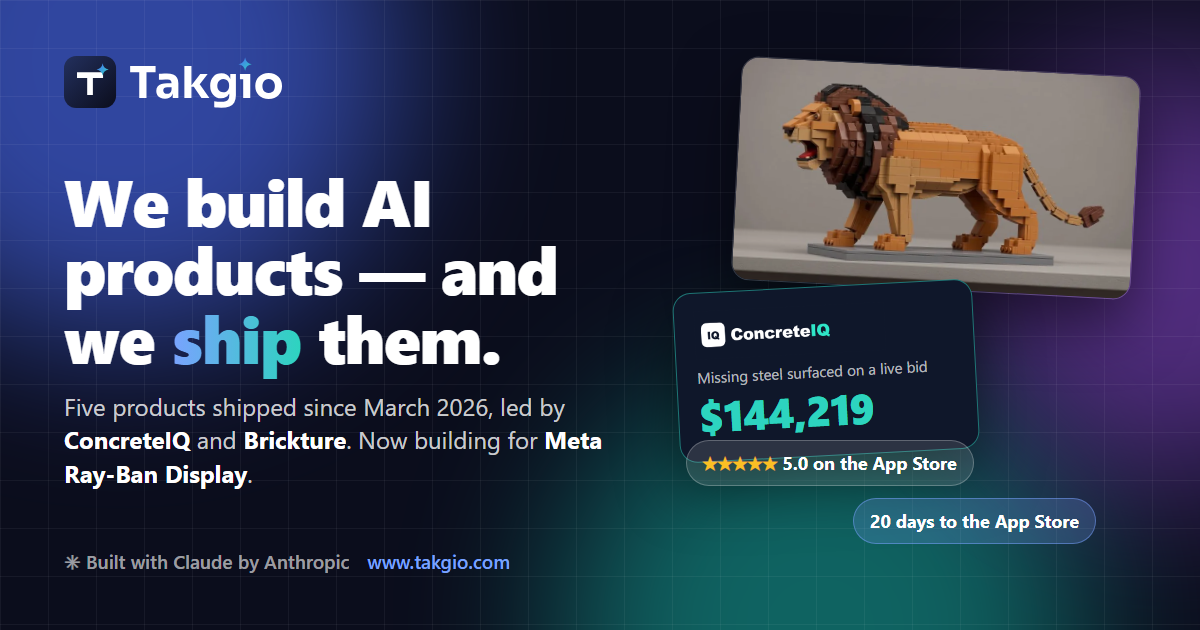
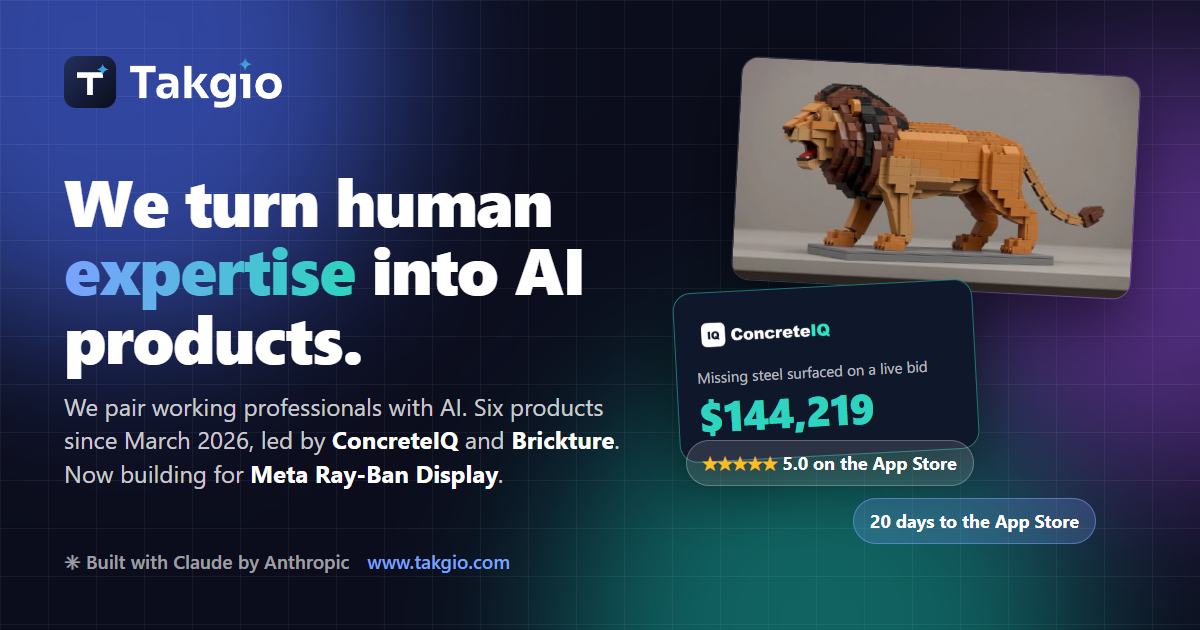
v2.46.0: Home headline "We turn human expertise into AI products."
New hero headline and supporting line, page title and description, social
titles and descriptions, and the share picture (now also says six products,
not five); share-picture alt text on all pages and a new ?v= for re-fetching.

Changed region(s): [[0.0308, 0.3921, 0.4933, 0.6032], [0.0308, 0.6333, 0.5242, 0.7841], [0.1542, 0.2714, 0.4625, 0.3619]]

diff --git a/index.html b/index.html
@@ -3,8 +3,8 @@
 <head>
   <meta charset="UTF-8">
   <meta name="viewport" content="width=device-width, initial-scale=1.0">
-  <title>Takgio — AI Product Studio for Construction, Legal, Education & Entertainment</title>
-  <meta name="description" content="Takgio is an AI product studio that ships — six products since March 2026, led by ConcreteIQ (AI bid estimating for concrete contractors) and Brickture, and now building for Meta Ray-Ban Display.">
+  <title>Takgio — We Turn Human Expertise into AI Products</title>
+  <meta name="description" content="Takgio turns human expertise into AI products: we pair working professionals with AI and build their knowledge into the product. Six products since March 2026, led by ConcreteIQ and Brickture, and now building for Meta Ray-Ban Display.">
   <link rel="icon" href="/favicon.svg" type="image/svg+xml">
   <link rel="icon" href="/images/brand/favicon-32.png" sizes="32x32" type="image/png">
   <link rel="apple-touch-icon" href="/images/brand/apple-touch-icon.png">
@@ -14,17 +14,17 @@
   <meta property="og:type" content="website">
   <meta property="og:site_name" content="Takgio">
   <meta property="og:url" content="https://www.takgio.com/">
-  <meta property="og:title" content="Takgio — AI products for Construction, Legal, Education &amp; Entertainment">
-  <meta property="og:description" content="Takgio builds AI-powered products across construction, legal, education, and entertainment — purpose-built and production-grade.">
-  <meta property="og:image" content="https://www.takgio.com/images/og-image.png?v=2.25">
+  <meta property="og:title" content="Takgio — We Turn Human Expertise into AI Products">
+  <meta property="og:description" content="We pair working professionals with AI and build their knowledge into the product. Six products since March 2026 across construction, legal, education and entertainment.">
+  <meta property="og:image" content="https://www.takgio.com/images/og-image.png?v=2.46">
   <meta property="og:image:width" content="1200">
   <meta property="og:image:height" content="630">
-  <meta property="og:image:alt" content="Takgio — We build AI products and ship them: ConcreteIQ, Brickture, and more, now building for Meta Ray-Ban Display">
+  <meta property="og:image:alt" content="Takgio — We turn human expertise into AI products: ConcreteIQ, Brickture, and more, now building for Meta Ray-Ban Display">
   <!-- Twitter -->
   <meta name="twitter:card" content="summary_large_image">
-  <meta name="twitter:title" content="Takgio — AI products for Construction, Legal, Education &amp; Entertainment">
-  <meta name="twitter:description" content="AI-powered products across construction, legal, education &amp; entertainment — purpose-built, production-grade.">
-  <meta name="twitter:image" content="https://www.takgio.com/images/og-image.png?v=2.25">
+  <meta name="twitter:title" content="Takgio — We Turn Human Expertise into AI Products">
+  <meta name="twitter:description" content="We pair working professionals with AI and build their knowledge into the product. Six products since March 2026.">
+  <meta name="twitter:image" content="https://www.takgio.com/images/og-image.png?v=2.46">
 
   <link rel="stylesheet" href="css/styles.css">
   <script defer src="/js/analytics.js"></script>
@@ -156,8 +156,8 @@
             Now building for Meta Ray-Ban Display
             <span class="arrow">&rarr;</span>
           </a>
-          <h1>We build AI products &mdash; and we <em>ship</em> them.</h1>
-          <p class="h-lead">Six products shipped since March 2026 &mdash; led by <strong>ConcreteIQ</strong>, AI bid estimating built to change how concrete contractors win work, and <strong>Brickture</strong>, one photo to a buildable brick model with kit ordering built in. Next: <strong>Meta Ray-Ban Display</strong>.</p>
+          <h1>We turn human <em>expertise</em> into AI products.</h1>
+          <p class="h-lead">We pair working professionals with AI. Their knowledge is captured, checked against what they said, and built into the product &mdash; with the goal of AI that keeps learning from the people who know the work. Six products since March 2026, led by <strong>ConcreteIQ</strong>, AI bid estimating for concrete contractors, and <strong>Brickture</strong>, one photo to a buildable brick model.</p>
           <div class="h-stats">
             <div><b data-count="6">6</b><span>Products shipped since March 2026</span></div>
             <div><b data-count="144219" data-prefix="$">$144,219</b><span>Missing steel ConcreteIQ surfaced on one live bid</span></div>

diff --git a/products.html b/products.html
@@ -16,15 +16,15 @@
   <meta property="og:url" content="https://www.takgio.com/products.html">
   <meta property="og:title" content="Products — ConcreteIQ, Brickture, Hoof Harted, True Record, Ann Elise, Pinball-QR &amp; Meta Ray-Ban Display | Takgio">
   <meta property="og:description" content="Six products designed, built and shipped by Takgio, plus the next platform we&rsquo;re building for: ConcreteIQ, Brickture, Hoof Harted, True Record, Ann Elise, Pinball-QR, and apps for Meta Ray-Ban Display. Each has its own page with the numbers behind it.">
-  <meta property="og:image" content="https://www.takgio.com/images/og-image.png?v=2.25">
+  <meta property="og:image" content="https://www.takgio.com/images/og-image.png?v=2.46">
   <meta property="og:image:width" content="1200">
   <meta property="og:image:height" content="630">
-  <meta property="og:image:alt" content="Takgio — We build AI products and ship them: ConcreteIQ, Brickture, and more, now building for Meta Ray-Ban Display">
+  <meta property="og:image:alt" content="Takgio — We turn human expertise into AI products: ConcreteIQ, Brickture, and more, now building for Meta Ray-Ban Display">
   <!-- Twitter -->
   <meta name="twitter:card" content="summary_large_image">
   <meta name="twitter:title" content="Products — ConcreteIQ, Brickture, Hoof Harted, True Record, Ann Elise, Pinball-QR &amp; Meta Ray-Ban Display | Takgio">
   <meta name="twitter:description" content="Six products designed, built and shipped by Takgio, plus the next platform we&rsquo;re building for: ConcreteIQ, Brickture, Hoof Harted, True Record, Ann Elise, Pinball-QR, and apps for Meta Ray-Ban Display. Each has its own page with the numbers behind it.">
-  <meta name="twitter:image" content="https://www.takgio.com/images/og-image.png?v=2.25">
+  <meta name="twitter:image" content="https://www.takgio.com/images/og-image.png?v=2.46">
 
   <link rel="stylesheet" href="css/styles.css">
   <script defer src="/js/analytics.js"></script>

diff --git a/pinball-qr.html b/pinball-qr.html
@@ -16,15 +16,15 @@
   <meta property="og:url" content="https://www.takgio.com/pinball-qr.html">
   <meta property="og:title" content="Pinball-QR: QR Problem Reporting for Pinball and Arcade Venues — Takgio">
   <meta property="og:description" content="Pinball-QR lets a player scan a QR card on a machine, tap what is wrong, and email the venue in one step, with a one-tap Mark fixed link. No app, no account. Live at a pinball and arcade venue since October 9, 2026.">
-  <meta property="og:image" content="https://www.takgio.com/images/og-image.png?v=2.25">
+  <meta property="og:image" content="https://www.takgio.com/images/og-image.png?v=2.46">
   <meta property="og:image:width" content="1200">
   <meta property="og:image:height" content="630">
-  <meta property="og:image:alt" content="Takgio — We build AI products and ship them: ConcreteIQ, Brickture, and more, now building for Meta Ray-Ban Display">
+  <meta property="og:image:alt" content="Takgio — We turn human expertise into AI products: ConcreteIQ, Brickture, and more, now building for Meta Ray-Ban Display">
   <!-- Twitter -->
   <meta name="twitter:card" content="summary_large_image">
   <meta name="twitter:title" content="Pinball-QR: QR Problem Reporting for Pinball and Arcade Venues — Takgio">
   <meta name="twitter:description" content="Pinball-QR lets a player scan a QR card on a machine, tap what is wrong, and email the venue in one step, with a one-tap Mark fixed link. No app, no account. Live at a pinball and arcade venue since October 9, 2026.">
-  <meta name="twitter:image" content="https://www.takgio.com/images/og-image.png?v=2.25">
+  <meta name="twitter:image" content="https://www.takgio.com/images/og-image.png?v=2.46">
 
   <link rel="stylesheet" href="/css/styles.css">
   <script defer src="/js/analytics.js"></script>

diff --git a/industries.html b/industries.html
@@ -16,15 +16,15 @@
   <meta property="og:url" content="https://www.takgio.com/industries.html">
   <meta property="og:title" content="Industries — Construction, Entertainment, Legal &amp; Civic, Education — Takgio">
   <meta property="og:description" content="Takgio builds and launches its own AI products in construction, entertainment, legal &amp; civic, and education — and now for Meta Ray-Ban Display. Our products, earlier engagements, and the results.">
-  <meta property="og:image" content="https://www.takgio.com/images/og-image.png?v=2.25">
+  <meta property="og:image" content="https://www.takgio.com/images/og-image.png?v=2.46">
   <meta property="og:image:width" content="1200">
   <meta property="og:image:height" content="630">
-  <meta property="og:image:alt" content="Takgio — We build AI products and ship them: ConcreteIQ, Brickture, and more, now building for Meta Ray-Ban Display">
+  <meta property="og:image:alt" content="Takgio — We turn human expertise into AI products: ConcreteIQ, Brickture, and more, now building for Meta Ray-Ban Display">
   <!-- Twitter -->
   <meta name="twitter:card" content="summary_large_image">
   <meta name="twitter:title" content="Industries — Construction, Entertainment, Legal &amp; Civic, Education — Takgio">
   <meta name="twitter:description" content="Takgio builds and launches its own AI products in construction, entertainment, legal &amp; civic, and education — and now for Meta Ray-Ban Display. Our products, earlier engagements, and the results.">
-  <meta name="twitter:image" content="https://www.takgio.com/images/og-image.png?v=2.25">
+  <meta name="twitter:image" content="https://www.takgio.com/images/og-image.png?v=2.46">
 
   <link rel="stylesheet" href="css/styles.css">
   <script defer src="/js/analytics.js"></script>

diff --git a/true-record.html b/true-record.html
@@ -16,15 +16,15 @@
   <meta property="og:url" content="https://www.takgio.com/true-record.html">
   <meta property="og:title" content="True Record — Government Documents, Narrated — Takgio">
   <meta property="og:description" content="True Record narrates official US government documents — Supreme Court opinions, congressional committee reports and Congressional Research Service reports — in their own words. No panel. No commentary. No spin.">
-  <meta property="og:image" content="https://www.takgio.com/images/og-image.png?v=2.25">
+  <meta property="og:image" content="https://www.takgio.com/images/og-image.png?v=2.46">
   <meta property="og:image:width" content="1200">
   <meta property="og:image:height" content="630">
-  <meta property="og:image:alt" content="Takgio — We build AI products and ship them: ConcreteIQ, Brickture, and more, now building for Meta Ray-Ban Display">
+  <meta property="og:image:alt" content="Takgio — We turn human expertise into AI products: ConcreteIQ, Brickture, and more, now building for Meta Ray-Ban Display">
   <!-- Twitter -->
   <meta name="twitter:card" content="summary_large_image">
   <meta name="twitter:title" content="True Record — Government Documents, Narrated — Takgio">
   <meta name="twitter:description" content="True Record narrates official US government documents — Supreme Court opinions, congressional committee reports and Congressional Research Service reports — in their own words. No panel. No commentary. No spin.">
-  <meta name="twitter:image" content="https://www.takgio.com/images/og-image.png?v=2.25">
+  <meta name="twitter:image" content="https://www.takgio.com/images/og-image.png?v=2.46">
 
   <link rel="stylesheet" href="css/styles.css">
   <script defer src="/js/analytics.js"></script>

diff --git a/hoof-harted.html b/hoof-harted.html
@@ -16,15 +16,15 @@
   <meta property="og:url" content="https://www.takgio.com/hoof-harted.html">
   <meta property="og:title" content="Hoof Harted: Party Scan Game — Takgio">
   <meta property="og:description" content="Hoof Harted is a party game for iPhone and Android: name the room, hit scan, and a gloriously over-engineered fake detector picks the culprit. It senses nothing — that is the entire joke. Free on the App Store and Google Play.">
-  <meta property="og:image" content="https://www.takgio.com/images/og-image.png?v=2.25">
+  <meta property="og:image" content="https://www.takgio.com/images/og-image.png?v=2.46">
   <meta property="og:image:width" content="1200">
   <meta property="og:image:height" content="630">
-  <meta property="og:image:alt" content="Takgio — We build AI products and ship them: ConcreteIQ, Brickture, and more, now building for Meta Ray-Ban Display">
+  <meta property="og:image:alt" content="Takgio — We turn human expertise into AI products: ConcreteIQ, Brickture, and more, now building for Meta Ray-Ban Display">
   <!-- Twitter -->
   <meta name="twitter:card" content="summary_large_image">
   <meta name="twitter:title" content="Hoof Harted: Party Scan Game — Takgio">
   <meta name="twitter:description" content="Hoof Harted is a party game for iPhone and Android: name the room, hit scan, and a gloriously over-engineered fake detector picks the culprit. It senses nothing — that is the entire joke. Free on the App Store and Google Play.">
-  <meta name="twitter:image" content="https://www.takgio.com/images/og-image.png?v=2.25">
+  <meta name="twitter:image" content="https://www.takgio.com/images/og-image.png?v=2.46">
 
   <link rel="stylesheet" href="css/styles.css">
   <script defer src="/js/analytics.js"></script>

diff --git a/ann-elise.html b/ann-elise.html
@@ -16,15 +16,15 @@
   <meta property="og:url" content="https://www.takgio.com/ann-elise.html">
   <meta property="og:title" content="Ann Elise — The AI Organic Chemistry Tutor That Teaches — Takgio">
   <meta property="og:description" content="Ann Elise is an AI tutor for college Organic Chemistry that teaches instead of handing over answers — Socratic tutoring, 2D and 3D molecules, syllabus-aware study tools and voice. Free to start.">
-  <meta property="og:image" content="https://www.takgio.com/images/og-image.png?v=2.25">
+  <meta property="og:image" content="https://www.takgio.com/images/og-image.png?v=2.46">
   <meta property="og:image:width" content="1200">
   <meta property="og:image:height" content="630">
-  <meta property="og:image:alt" content="Takgio — We build AI products and ship them: ConcreteIQ, Brickture, and more, now building for Meta Ray-Ban Display">
+  <meta property="og:image:alt" content="Takgio — We turn human expertise into AI products: ConcreteIQ, Brickture, and more, now building for Meta Ray-Ban Display">
   <!-- Twitter -->
   <meta name="twitter:card" content="summary_large_image">
   <meta name="twitter:title" content="Ann Elise — The AI Organic Chemistry Tutor That Teaches — Takgio">
   <meta name="twitter:description" content="Ann Elise is an AI tutor for college Organic Chemistry that teaches instead of handing over answers — Socratic tutoring, 2D and 3D molecules, syllabus-aware study tools and voice. Free to start.">
-  <meta name="twitter:image" content="https://www.takgio.com/images/og-image.png?v=2.25">
+  <meta name="twitter:image" content="https://www.takgio.com/images/og-image.png?v=2.46">
 
   <link rel="stylesheet" href="css/styles.css">
   <script defer src="/js/analytics.js"></script>

diff --git a/brickture.html b/brickture.html
@@ -16,15 +16,15 @@
   <meta property="og:url" content="https://www.takgio.com/brickture.html">
   <meta property="og:title" content="Brickture — Turn a Photo into a Brick Build — Takgio">
   <meta property="og:description" content="Brickture turns a photo of a real object into a buildable brick model — step-by-step 3D instructions, a parts list with a cost estimate, and kit ordering in beta. On iOS TestFlight and Google Play testing.">
-  <meta property="og:image" content="https://www.takgio.com/images/og-image.png?v=2.25">
+  <meta property="og:image" content="https://www.takgio.com/images/og-image.png?v=2.46">
   <meta property="og:image:width" content="1200">
   <meta property="og:image:height" content="630">
-  <meta property="og:image:alt" content="Takgio — We build AI products and ship them: ConcreteIQ, Brickture, and more, now building for Meta Ray-Ban Display">
+  <meta property="og:image:alt" content="Takgio — We turn human expertise into AI products: ConcreteIQ, Brickture, and more, now building for Meta Ray-Ban Display">
   <!-- Twitter -->
   <meta name="twitter:card" content="summary_large_image">
   <meta name="twitter:title" content="Brickture — Turn a Photo into a Brick Build — Takgio">
   <meta name="twitter:description" content="Brickture turns a photo of a real object into a buildable brick model — step-by-step 3D instructions, a parts list with a cost estimate, and kit ordering in beta. On iOS TestFlight and Google Play testing.">
-  <meta name="twitter:image" content="https://www.takgio.com/images/og-image.png?v=2.25">
+  <meta name="twitter:image" content="https://www.takgio.com/images/og-image.png?v=2.46">
 
   <link rel="stylesheet" href="css/styles.css">
   <script defer src="/js/analytics.js"></script>

diff --git a/case-study-construction-safety.html b/case-study-construction-safety.html
@@ -16,15 +16,15 @@
   <meta property="og:url" content="https://www.takgio.com/case-study-construction-safety.html">
   <meta property="og:title" content="Case Study: Safety Compliance Monitoring for a Multi-State Contractor — Takgio">
   <meta property="og:description" content="Before Takgio, Ted Takvorian led System Software Group in building a Claude-powered safety compliance product for a multi-state contractor, cutting documentation gaps by 75% and enabling 3x growth with no added admin staff.">
-  <meta property="og:image" content="https://www.takgio.com/images/og-image.png?v=2.25">
+  <meta property="og:image" content="https://www.takgio.com/images/og-image.png?v=2.46">
   <meta property="og:image:width" content="1200">
   <meta property="og:image:height" content="630">
-  <meta property="og:image:alt" content="Takgio — We build AI products and ship them: ConcreteIQ, Brickture, and more, now building for Meta Ray-Ban Display">
+  <meta property="og:image:alt" content="Takgio — We turn human expertise into AI products: ConcreteIQ, Brickture, and more, now building for Meta Ray-Ban Display">
   <!-- Twitter -->
   <meta name="twitter:card" content="summary_large_image">
   <meta name="twitter:title" content="Case Study: Safety Compliance Monitoring for a Multi-State Contractor">
   <meta name="twitter:description" content="A Claude-powered safety compliance product that cut documentation gaps by 75% and enabled 3x growth with no added admin staff.">
-  <meta name="twitter:image" content="https://www.takgio.com/images/og-image.png?v=2.25">
+  <meta name="twitter:image" content="https://www.takgio.com/images/og-image.png?v=2.46">
 
   <link rel="stylesheet" href="css/styles.css">
   <script defer src="/js/analytics.js"></script>

diff --git a/concreteiq.html b/concreteiq.html
@@ -16,15 +16,15 @@
   <meta property="og:url" content="https://www.takgio.com/concreteiq.html">
   <meta property="og:title" content="ConcreteIQ — AI Takeoff &amp; Bidding for Commercial Concrete — Takgio">
   <meta property="og:description" content="ConcreteIQ reads a commercial drawing set, takes off the concrete scope, flags what it can&#x27;t measure, and hands the estimator a priced bid. Live beta. Built by Takgio.">
-  <meta property="og:image" content="https://www.takgio.com/images/og-image.png?v=2.25">
+  <meta property="og:image" content="https://www.takgio.com/images/og-image.png?v=2.46">
   <meta property="og:image:width" content="1200">
   <meta property="og:image:height" content="630">
-  <meta property="og:image:alt" content="Takgio — We build AI products and ship them: ConcreteIQ, Brickture, and more, now building for Meta Ray-Ban Display">
+  <meta property="og:image:alt" content="Takgio — We turn human expertise into AI products: ConcreteIQ, Brickture, and more, now building for Meta Ray-Ban Display">
   <!-- Twitter -->
   <meta name="twitter:card" content="summary_large_image">
   <meta name="twitter:title" content="ConcreteIQ — AI Takeoff &amp; Bidding for Commercial Concrete — Takgio">
   <meta name="twitter:description" content="ConcreteIQ reads a commercial drawing set, takes off the concrete scope, flags what it can&#x27;t measure, and hands the estimator a priced bid. Live beta. Built by Takgio.">
-  <meta name="twitter:image" content="https://www.takgio.com/images/og-image.png?v=2.25">
+  <meta name="twitter:image" content="https://www.takgio.com/images/og-image.png?v=2.46">
 
   <link rel="stylesheet" href="css/styles.css">
   <script defer src="/js/analytics.js"></script>

diff --git a/meta-ray-ban-display.html b/meta-ray-ban-display.html
@@ -16,15 +16,15 @@
   <meta property="og:url" content="https://www.takgio.com/meta-ray-ban-display.html">
   <meta property="og:title" content="Apps for Meta Ray-Ban Display — Takgio">
   <meta property="og:description" content="Takgio is building apps for Meta Ray-Ban Display — heads-up, hands-free AI glasses with a full-color in-lens display. Our first app is registered in Meta&#x27;s Wearables Developer Center.">
-  <meta property="og:image" content="https://www.takgio.com/images/og-image.png?v=2.25">
+  <meta property="og:image" content="https://www.takgio.com/images/og-image.png?v=2.46">
   <meta property="og:image:width" content="1200">
   <meta property="og:image:height" content="630">
-  <meta property="og:image:alt" content="Takgio — We build AI products and ship them: ConcreteIQ, Brickture, and more, now building for Meta Ray-Ban Display">
+  <meta property="og:image:alt" content="Takgio — We turn human expertise into AI products: ConcreteIQ, Brickture, and more, now building for Meta Ray-Ban Display">
   <!-- Twitter -->
   <meta name="twitter:card" content="summary_large_image">
   <meta name="twitter:title" content="Apps for Meta Ray-Ban Display — Takgio">
   <meta name="twitter:description" content="Takgio is building apps for Meta Ray-Ban Display — heads-up, hands-free AI glasses with a full-color in-lens display. Our first app is registered in Meta&#x27;s Wearables Developer Center.">
-  <meta name="twitter:image" content="https://www.takgio.com/images/og-image.png?v=2.25">
+  <meta name="twitter:image" content="https://www.takgio.com/images/og-image.png?v=2.46">
 
   <link rel="stylesheet" href="css/styles.css">
   <script defer src="/js/analytics.js"></script>

diff --git a/case-studies.html b/case-studies.html
@@ -16,15 +16,15 @@
   <meta property="og:url" content="https://www.takgio.com/case-studies.html">
   <meta property="og:title" content="Case Studies — Real AI Deployments by Takgio">
   <meta property="og:description" content="Real AI deployments across construction, legal, education, and entertainment — from document intelligence to ConcreteIQ and Brickture. See how Takgio builds products that deliver.">
-  <meta property="og:image" content="https://www.takgio.com/images/og-image.png?v=2.25">
+  <meta property="og:image" content="https://www.takgio.com/images/og-image.png?v=2.46">
   <meta property="og:image:width" content="1200">
   <meta property="og:image:height" content="630">
-  <meta property="og:image:alt" content="Takgio — We build AI products and ship them: ConcreteIQ, Brickture, and more, now building for Meta Ray-Ban Display">
+  <meta property="og:image:alt" content="Takgio — We turn human expertise into AI products: ConcreteIQ, Brickture, and more, now building for Meta Ray-Ban Display">
   <!-- Twitter -->
   <meta name="twitter:card" content="summary_large_image">
   <meta name="twitter:title" content="Case Studies — Real AI Deployments by Takgio">
   <meta name="twitter:description" content="Real AI deployments across construction, legal, education, and entertainment — from document intelligence to ConcreteIQ and Brickture. See how Takgio builds products that deliver.">
-  <meta name="twitter:image" content="https://www.takgio.com/images/og-image.png?v=2.25">
+  <meta name="twitter:image" content="https://www.takgio.com/images/og-image.png?v=2.46">
 
   <link rel="stylesheet" href="css/styles.css">
   <script defer src="/js/analytics.js"></script>
